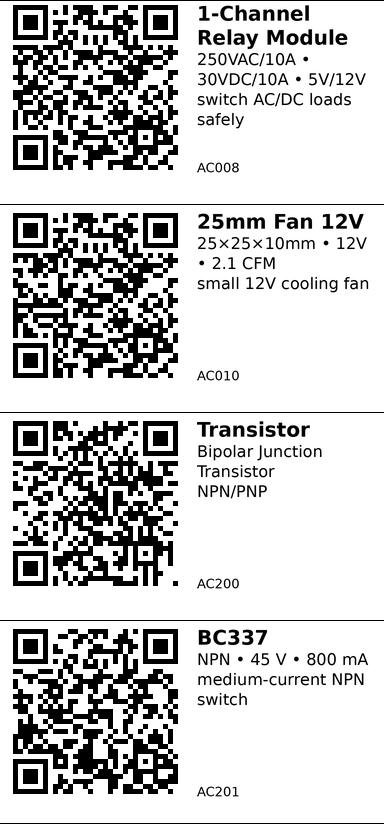
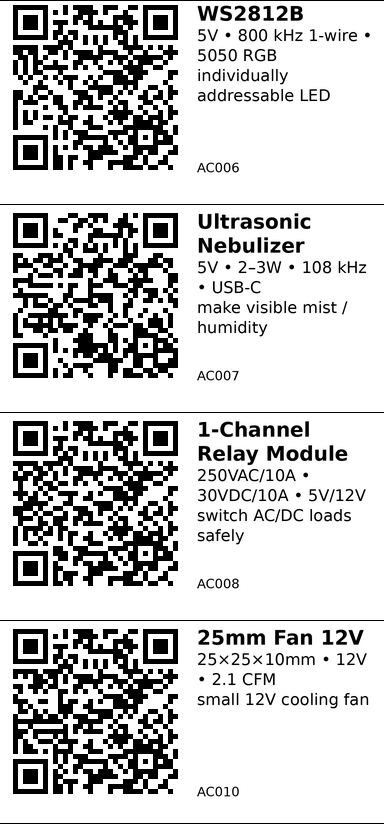
Add PS2xx Battery Charging and MC1xx ESP32 families
PS2xx - Battery Charging (2 components):
- Add PS200 family anchor with comparison table and selection guide
- Migrate PS201 (TP4056 USB charger, 1A, stable 5V)
- Migrate PS202 (CN3065 solar charger, 500mA, variable input)
- Update sticker metadata: short/use fields per pattern
- Fix empty AliExpress link in PS202

MC1xx - ESP32 Boards (8 components):
- Add MC100 family anchor with key boards comparison table
- Covers ESP32-C3/S3 SuperMini, camera modules, dev boards
- Selection guide for compact/camera/development use cases
- MC101-107 existing boards now grouped under family anchor

Migration sheets: 26 components across 6 sheets (padded)

🤖 Generated with [Claude Code](https://claude.com/claude-code)

diff --git a/docs/qr/PS101/index.html b/docs/qr/PS101/index.html
@@ -2,10 +2,10 @@
 <html>
   <head>
     <meta charset="utf-8">
-    <meta http-equiv="refresh" content="0; url=https://thibserot.github.io/electronics-catalog/components/PS101/">
+    <meta http-equiv="refresh" content="0; url=https://thibserot.github.io/electronics-catalog/components/DC-DC-Converters/PS101/">
     <title>PS101</title>
   </head>
   <body>
-    <p>Redirecting to <a href="https://thibserot.github.io/electronics-catalog/components/PS101/">https://thibserot.github.io/electronics-catalog/components/PS101/</a></p>
+    <p>Redirecting to <a href="https://thibserot.github.io/electronics-catalog/components/DC-DC-Converters/PS101/">https://thibserot.github.io/electronics-catalog/components/DC-DC-Converters/PS101/</a></p>
   </body>
 </html>

diff --git a/docs/components/esp32/index.md b/docs/components/esp32/index.md
@@ -1,6 +1,6 @@
 ---
 id: MC100
-name: ESP32
+name: ESP32 Boards
 title: ESP32 Development Boards
 category: MC
 tags:
@@ -8,11 +8,42 @@ tags:
   - microcontroller
   - wifi
   - bluetooth
-short: "Dev Boards"
-use: "Development"
+short: "ESP32 dev boards"
+use: "WiFi+BT • various"
 ---
 
-# ESP32 Development Boards
+# ESP32 Development Boards - MC100
+
+ESP32 microcontroller development boards with built-in WiFi and Bluetooth. Choose based on form factor (compact vs dev board), CPU architecture (RISC-V vs Xtensa), and special features (camera, display, extra memory).
+
+## Key Boards Comparison
+
+| Component | Chip | CPU | RAM | Flash | Special Features |
+|-----------|------|-----|-----|-------|------------------|
+| [MC101](MC101.md) | ESP32-C3 | RISC-V 160MHz | 400KB | 4MB | Ultra-compact, USB-C |
+| [MC102](MC102.md) | ESP32-S3 | Dual Xtensa 240MHz | 512KB | 16MB | Compact, high performance |
+| [MC103](MC103.md) | ESP32 | Xtensa 240MHz | 8MB PSRAM | 4MB | 5MP camera (OV5640) |
+| [MC104](MC104.md) | ESP32 | Dual Xtensa 240MHz | 520KB | 4MB | Standard dev board, 30 GPIO |
+
+See full component list below for additional boards.
+
+## Selection Guide
+
+**Compact projects:** MC101 (C3 SuperMini) or MC102 (S3 SuperMini) for small form factor with modern chips.
+
+**Camera/vision:** MC103 (OV5640 camera module) for image capture and processing applications.
+
+**General development:** MC104 (WROOM-32D DevKit) for breadboard-friendly prototyping with many exposed GPIO.
+
+## Common Applications
+
+**IoT sensors:** Any board works, but MC101/MC102 offer compact size and low power for battery projects.
+
+**Camera projects:** MC103 for security cameras, QR code readers, or image-based ML applications.
+
+**WiFi control:** Standard MC104 for home automation, web servers, or MQTT-based systems.
+
+---
 
 ## Components in This Family
 

diff --git a/docs/components/Battery Charging/index.md b/docs/components/Battery Charging/index.md
@@ -4,20 +4,45 @@ name: Battery Charging
 title: Battery Charging
 category: PS
 tags:
-    - charger
-    - battery
-    - solar
-    - micro-usb
-short: "Solar or USB"
+  - battery-charger
+  - li-ion
+  - li-po
+  - solar
+  - usb-charging
+short: "Battery charger"
+use: "1S Li-ion/LiPo"
 ---
 
+# Battery Charging - PS200
 
-# Battery Charging
+Single-cell (1S) lithium-ion and lithium-polymer battery chargers. Choose based on your power source: stable 5V USB or variable-voltage solar panel.
+
+## Comparison
+
+| Component | IC | Input Source | Input Voltage | Max Charge Current | Best For |
+|-----------|----|--------------| --------------|-------------------|----------|
+| [PS201](PS201.md) | TP4056 | USB (stable) | 5V (4.5-5.5V) | 1A (adjustable) | USB/wall adapter charging |
+| [PS202](PS202.md) | CN3065 | Solar panel | 4.4-6V (variable) | 500mA | Direct solar panel charging |
+
+## Selection Guide
+
+**[PS201 - TP4056](PS201.md):** Choose when you have a stable 5V source (USB, wall adapter, or regulated power supply). Supports up to 1A charge current for faster charging.
+
+**[PS202 - CN3065](PS202.md):** Choose when charging directly from a solar panel with fluctuating voltage/current. Handles variable input gracefully without external regulation.
+
+## Common Applications
+
+**USB power bank:** Use PS201 (TP4056) with USB input for building portable battery packs or charging stations.
+
+**Solar-powered projects:** Use PS202 (CN3065) for outdoor sensors or off-grid devices powered by small 5-6V solar panels.
+
+**ESP32 deep sleep projects:** Either module works, but PS201 supports faster charging (1A vs 500mA) if you have USB available during battery top-ups.
+
+---
 
 ## Components in This Family
 
 {{ children() }}
-
 
 ---
 

diff --git a/docs/registry/index.md b/docs/registry/index.md
@@ -7,7 +7,7 @@ hide:
 # Component ID Registry
 
 _This page is generated from `components/stickers/id_registry_simple.yaml`._  
-**Generated:** 2025-11-25T21:09:56Z
+**Generated:** 2025-11-25T21:39:05Z
 
 ## Categories
 | Code | Title | Count | Next ID | Next by family |
@@ -32,10 +32,10 @@ _This page is generated from `components/stickers/id_registry_simple.yaml`._
 | `ENV2xx` | Air Quality & Gas Sensors | `ENV200` | `ENV200`, `ENV201`, `ENV202` |
 | `ENV3xx` | Light Sensors | `ENV300` | `ENV300`, `ENV301`, `ENV302`, `ENV303`, `ENV304` |
 | `IO1xx` | Magnetic Sensors | `IO100` | `IO100`, `IO101`, `IO102` |
-| `MC1xx` | ESP32 | `MC100` | `MC100`, `MC101`, `MC102`, `MC103`, `MC104`, `MC105`, `MC106`, `MC107` |
+| `MC1xx` | ESP32 Boards | `MC100` | `MC100`, `MC101`, `MC102`, `MC103`, `MC104`, `MC105`, `MC106`, `MC107` |
 | `OT1xx` | Logic ICs | `OT100` | `OT100`, `OT101`, `OT102` |
 | `OT2xx` | RTC Modules | `OT200` | `OT200`, `OT201`, `OT202` |
-| `PS1xx` | DC-DC Converters | `PS100` | `PS100`, `PS101`, `PS101`, `PS102`, `PS103` |
+| `PS1xx` | DC-DC Converters | `PS100` | `PS100`, `PS101`, `PS102`, `PS103` |
 | `PS2xx` | Battery Charging | `PS200` | `PS200`, `PS201`, `PS202` |
 | `PS3xx` | LDO Regulators | `PS300` | `PS300`, `PS301`, `PS302` |
 

diff --git a/docs/components/Battery Charging/PS201.md b/docs/components/Battery Charging/PS201.md
@@ -1,17 +1,16 @@
 ---
 id: PS201
 name: TP4056
-title: TP4056
+title: TP4056 Li-ion Charger
 category: PS
 tags:
-  - charger
+  - battery-charger
   - li-ion
-  - tp4056
-  - linear
-  - solar
-  - micro-usb
-  - battery
-short: "1S Li‑ion charger, 5 V in, up to 1A"
+  - usb-charging
+  - esp32-compatible
+  - arduino-compatible
+short: "Li-ion charger"
+use: "5V USB • 1A • 1S cell"
 ---
 
 # TP4056 Li‑ion Charger (Micro‑USB, 1S) — PS201
